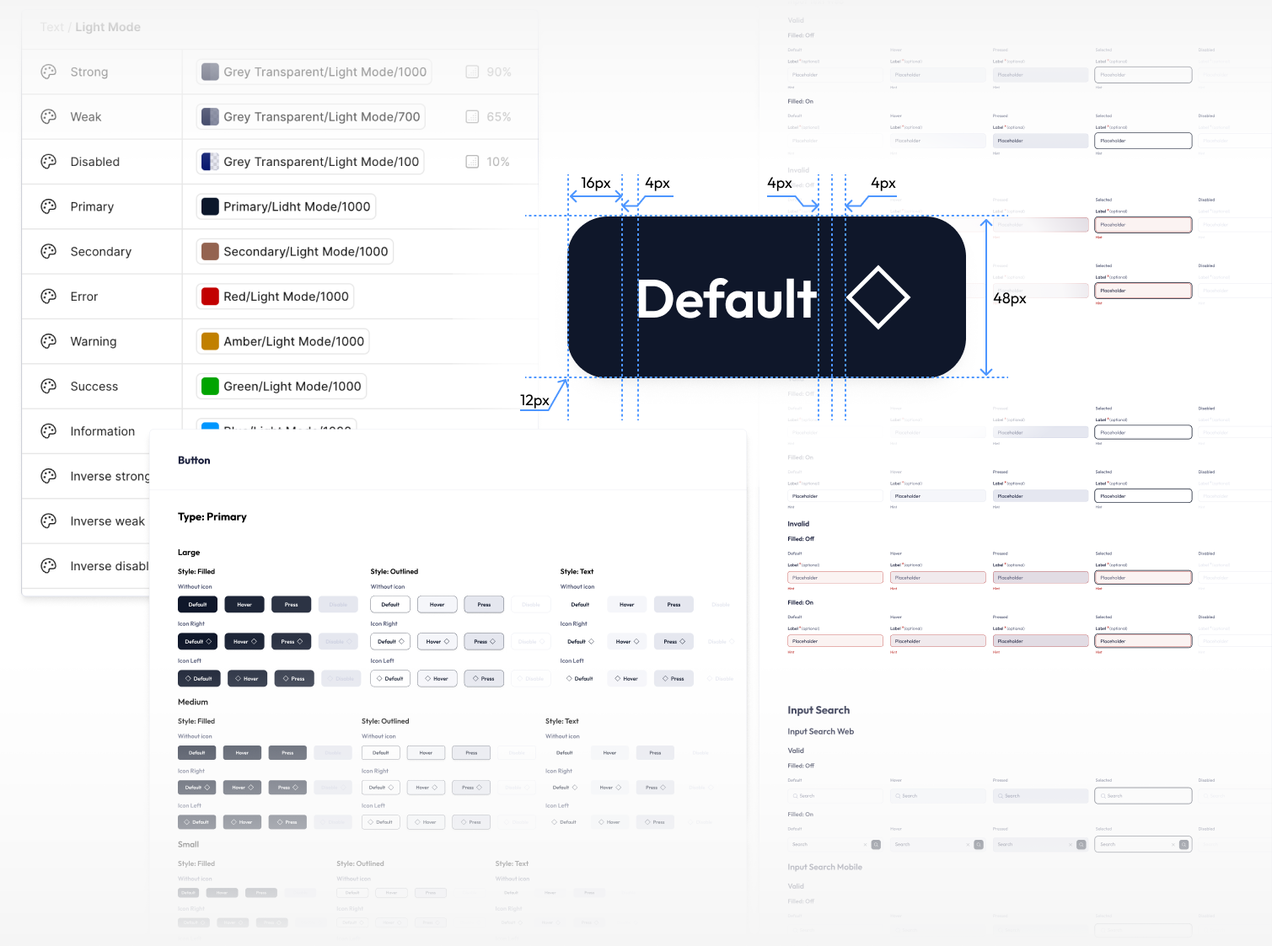
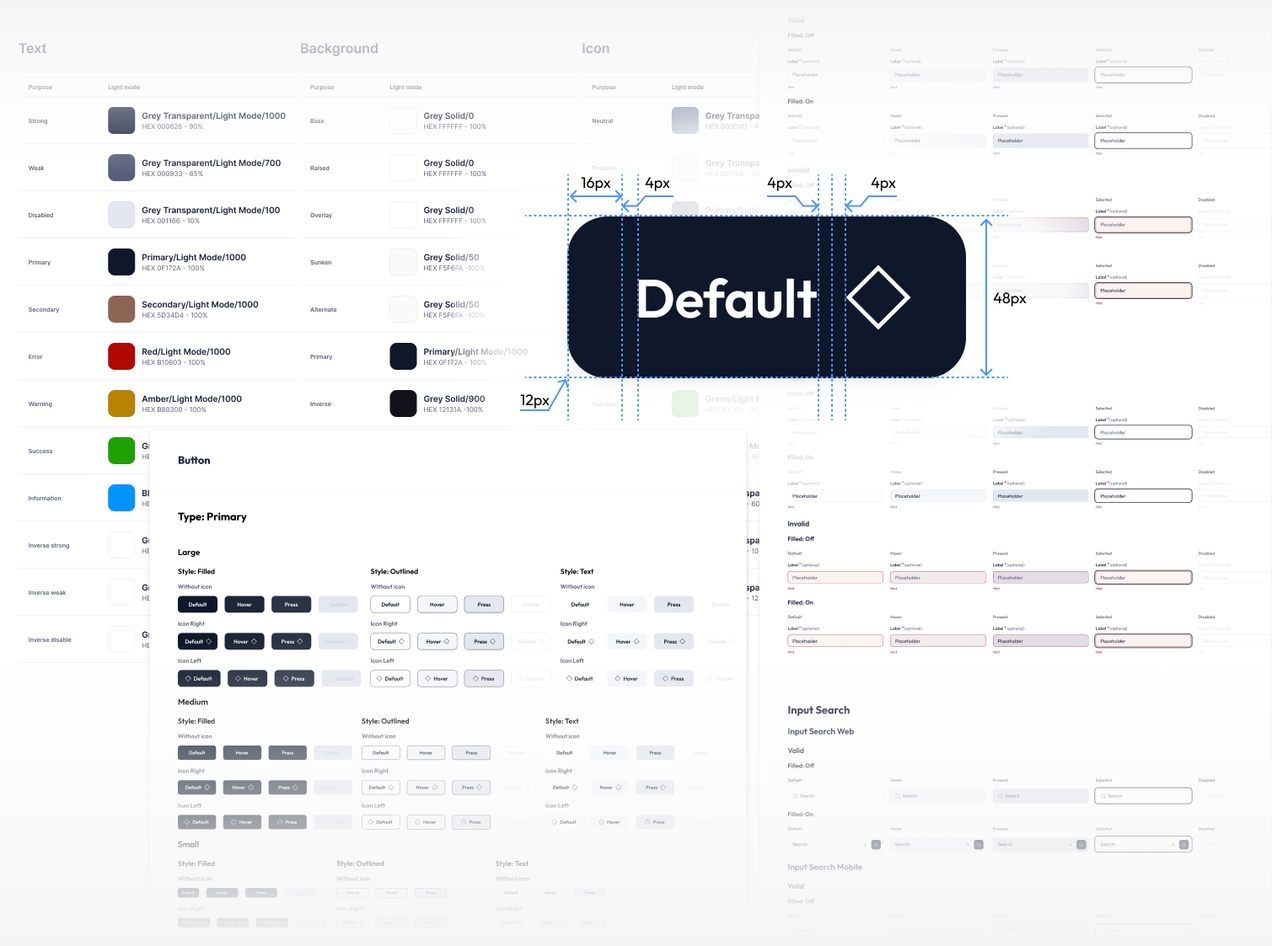
Move Design System ahead of the device showcase, fix a card overflow, and restore the [hidden] attribute sitewide
- Discovery Impact tile: "7 → 6" -> "10 → 6" mandatory steps, matching the
  Decision card
- Solution: Design System now sits right after the intro, before the device
  showcase (previously after it)
- Fix card 04's heading ("configuration/testing") overflowing its card: add
  a <wbr> after the slash so it wraps there instead of overflowing or
  breaking mid-word
- base.css: [hidden] { display: none !important; } — the native `hidden`
  attribute was silently losing to any author rule that sets `display`
  (e.g. .grid-12's own display: grid), regardless of specificity; this
  restores it as a reliable "remove from layout" attribute everywhere,
  found while trying (and later abandoning) a real product-screenshot
  onboarding subsection for Solution
- Update the refreshed design-system.png export (hex values + a Background
  column) and add the onboarding-real-*.png assets, kept on disk though
  currently unreferenced
- Update DESIGN-SYSTEM.md to match

diff --git a/ai-assistant-platform.html b/ai-assistant-platform.html
@@ -236,7 +236,7 @@
             <div class="cs-finding" tabindex="0">
               <div class="cs-finding-flip">
                 <div class="cs-finding-flip-face cs-finding-flip-front">
-                  <h3>Low guidance for configuration/testing</h3>
+                  <h3>Low guidance for configuration/<wbr />testing</h3>
                   <p>Users didn't know how to set up or test assistants without external help.</p>
                 </div>
                 <div class="cs-finding-flip-face cs-finding-flip-back">
@@ -288,7 +288,11 @@
       </div>
     </section>
 
-    <!-- 6 · SOLUTION — the IA as grouped boxes; the device showcase below carries the screens -->
+    <!-- 6 · SOLUTION — the IA as grouped boxes; Design System and the device showcase follow
+         below. The onboarding screens subsection that used to sit here (real before/after
+         product screenshots, same structure as Process's onboarding) was deleted at the user's
+         request — assets/images/projects/onboarding-real-*.png are unreferenced now, kept on
+         disk in case it's wanted again later. -->
     <section id="solution" class="section">
       <div class="container">
         <h2 class="section-title">Solution</h2>
@@ -313,6 +317,28 @@
             <ul class="cs-ia-items"><li>Notifications</li><li>Support</li><li>Plan &amp; credits</li></ul>
           </div>
         </div>
+      </div>
+    </section>
+
+    <!-- DESIGN SYSTEM — a real subsection (title + divider, standard .section rhythm), unlike
+         the device showcase below: this is reference content, not a placeholder loop, so it
+         earns a heading. Not one of the template's nine blocks and not listed in Contents; it
+         supplements Solution. Reference sheet (design-system.png)
+         exported from Figma, shown contained (.cs-figure.cs-wide) like the page's other
+         visuals, not full-bleed. -->
+    <section id="design-system" class="section">
+      <div class="container">
+        <h2 class="section-title">Design System</h2>
+        <hr class="section-divider" />
+      </div>
+      <div class="grid-12 cs-body">
+        <div class="cs-prose">
+          <p>Every screen above draws from one design system I built and maintained throughout the project: consistent colour and opacity tokens, and a shared set of components reused across both the Assistant tools and Business tools sides of the product.</p>
+          <p>Colour and opacity tokens, button anatomy with spacing annotations, and the full state matrix for buttons and inputs — the same components reused across every screen.</p>
+        </div>
+        <figure class="cs-figure cs-wide">
+          <img src="assets/images/projects/design-system.png" alt="Design system reference: color and opacity tokens, button anatomy with spacing annotations, button states across filled, outlined and text styles, and input states" loading="lazy" />
+        </figure>
       </div>
     </section>
 
@@ -378,27 +404,6 @@
       </div>
     </div>
 
-    <!-- DESIGN SYSTEM — a real subsection (title + divider, standard .section rhythm), unlike
-         the device showcase above: this is reference content, not a placeholder loop, so it
-         earns a heading. Not one of the template's nine blocks and not listed in Contents; it
-         supplements Solution. Reference sheet (design-system.png) exported from Figma, shown
-         contained (.cs-figure.cs-wide) like the page's other visuals, not full-bleed. -->
-    <section id="design-system" class="section">
-      <div class="container">
-        <h2 class="section-title">Design System</h2>
-        <hr class="section-divider" />
-      </div>
-      <div class="grid-12 cs-body">
-        <div class="cs-prose">
-          <p>Every screen above draws from one design system I built and maintained throughout the project: consistent colour and opacity tokens, and a shared set of components reused across both the Assistant tools and Business tools sides of the product.</p>
-          <p>Colour and opacity tokens, button anatomy with spacing annotations, and the full state matrix for buttons and inputs — the same components reused across every screen.</p>
-        </div>
-        <figure class="cs-figure cs-wide">
-          <img src="assets/images/projects/design-system.png" alt="Design system reference: color and opacity tokens, button anatomy with spacing annotations, button states across filled, outlined and text styles, and input states" loading="lazy" />
-        </figure>
-      </div>
-    </section>
-
     <!-- 7 · EVOLUTION — text only.
          OPTIONAL, only if screenshots of the white-label product are supplied: one or two screens next to
          the original (evolution-whitelabel-1.png, evolution-whitelabel-2.png) as a .cs-row.cs-wide of
@@ -437,7 +442,7 @@
             <p class="cs-impact-body">time to first assistant</p>
           </div>
           <div class="cs-impact-tile">
-            <p class="cs-impact-lead">7 <span class="cs-impact-arrow">→</span> 6</p>
+            <p class="cs-impact-lead">10 <span class="cs-impact-arrow">→</span> 6</p>
             <p class="cs-impact-body">Mandatory steps</p>
           </div>
           <div class="cs-impact-tile">

diff --git a/src/ai-assistant-platform.html b/src/ai-assistant-platform.html
@@ -221,7 +221,7 @@
             <div class="cs-finding" tabindex="0">
               <div class="cs-finding-flip">
                 <div class="cs-finding-flip-face cs-finding-flip-front">
-                  <h3>Low guidance for configuration/testing</h3>
+                  <h3>Low guidance for configuration/<wbr />testing</h3>
                   <p>Users didn't know how to set up or test assistants without external help.</p>
                 </div>
                 <div class="cs-finding-flip-face cs-finding-flip-back">
@@ -273,7 +273,11 @@
       </div>
     </section>
 
-    <!-- 6 · SOLUTION — the IA as grouped boxes; the device showcase below carries the screens -->
+    <!-- 6 · SOLUTION — the IA as grouped boxes; Design System and the device showcase follow
+         below. The onboarding screens subsection that used to sit here (real before/after
+         product screenshots, same structure as Process's onboarding) was deleted at the user's
+         request — assets/images/projects/onboarding-real-*.png are unreferenced now, kept on
+         disk in case it's wanted again later. -->
     <section id="solution" class="section">
       <div class="container">
         <h2 class="section-title">Solution</h2>
@@ -298,6 +302,28 @@
             <ul class="cs-ia-items"><li>Notifications</li><li>Support</li><li>Plan &amp; credits</li></ul>
           </div>
         </div>
+      </div>
+    </section>
+
+    <!-- DESIGN SYSTEM — a real subsection (title + divider, standard .section rhythm), unlike
+         the device showcase below: this is reference content, not a placeholder loop, so it
+         earns a heading. Not one of the template's nine blocks and not listed in Contents; it
+         supplements Solution. Reference sheet (design-system.png)
+         exported from Figma, shown contained (.cs-figure.cs-wide) like the page's other
+         visuals, not full-bleed. -->
+    <section id="design-system" class="section">
+      <div class="container">
+        <h2 class="section-title">Design System</h2>
+        <hr class="section-divider" />
+      </div>
+      <div class="grid-12 cs-body">
+        <div class="cs-prose">
+          <p>Every screen above draws from one design system I built and maintained throughout the project: consistent colour and opacity tokens, and a shared set of components reused across both the Assistant tools and Business tools sides of the product.</p>
+          <p>Colour and opacity tokens, button anatomy with spacing annotations, and the full state matrix for buttons and inputs — the same components reused across every screen.</p>
+        </div>
+        <figure class="cs-figure cs-wide">
+          <img src="assets/images/projects/design-system.png" alt="Design system reference: color and opacity tokens, button anatomy with spacing annotations, button states across filled, outlined and text styles, and input states" loading="lazy" />
+        </figure>
       </div>
     </section>
 
@@ -363,27 +389,6 @@
       </div>
     </div>
 
-    <!-- DESIGN SYSTEM — a real subsection (title + divider, standard .section rhythm), unlike
-         the device showcase above: this is reference content, not a placeholder loop, so it
-         earns a heading. Not one of the template's nine blocks and not listed in Contents; it
-         supplements Solution. Reference sheet (design-system.png) exported from Figma, shown
-         contained (.cs-figure.cs-wide) like the page's other visuals, not full-bleed. -->
-    <section id="design-system" class="section">
-      <div class="container">
-        <h2 class="section-title">Design System</h2>
-        <hr class="section-divider" />
-      </div>
-      <div class="grid-12 cs-body">
-        <div class="cs-prose">
-          <p>Every screen above draws from one design system I built and maintained throughout the project: consistent colour and opacity tokens, and a shared set of components reused across both the Assistant tools and Business tools sides of the product.</p>
-          <p>Colour and opacity tokens, button anatomy with spacing annotations, and the full state matrix for buttons and inputs — the same components reused across every screen.</p>
-        </div>
-        <figure class="cs-figure cs-wide">
-          <img src="assets/images/projects/design-system.png" alt="Design system reference: color and opacity tokens, button anatomy with spacing annotations, button states across filled, outlined and text styles, and input states" loading="lazy" />
-        </figure>
-      </div>
-    </section>
-
     <!-- 7 · EVOLUTION — text only.
          OPTIONAL, only if screenshots of the white-label product are supplied: one or two screens next to
          the original (evolution-whitelabel-1.png, evolution-whitelabel-2.png) as a .cs-row.cs-wide of
@@ -422,7 +427,7 @@
             <p class="cs-impact-body">time to first assistant</p>
           </div>
           <div class="cs-impact-tile">
-            <p class="cs-impact-lead">7 <span class="cs-impact-arrow">→</span> 6</p>
+            <p class="cs-impact-lead">10 <span class="cs-impact-arrow">→</span> 6</p>
             <p class="cs-impact-body">Mandatory steps</p>
           </div>
           <div class="cs-impact-tile">

diff --git a/css/base.css b/css/base.css
@@ -4,6 +4,16 @@
   box-sizing: border-box;
 }
 
+/* The native `hidden` attribute is only display: none in the browser's own (UA) stylesheet, at
+   low priority — any author rule that sets `display` on the same element (e.g. .grid-12's own
+   display: grid, loaded after this file) wins at equal specificity by cascade order alone, and
+   a more specific author rule (an id, or two classes) would win regardless of order. !important
+   is the one thing nothing here can accidentally out-rank, so `hidden` stays a reliable "remove
+   from layout" attribute everywhere on the site, not just where nothing else sets display. */
+[hidden] {
+  display: none !important;
+}
+
 html {
   scroll-behavior: smooth;
 }

diff --git a/DESIGN-SYSTEM.md b/DESIGN-SYSTEM.md
@@ -386,11 +386,11 @@ first). Components built for it, all in `css/case-study.css`:
 | `.cs-quotes` | Problem | Two user-research quotes stacked in columns 5–12, attributed "User research". |
 | `.cs-findings-featured` | Discovery | "content overload" (lowercase, like every other label on the page — `.cs-onb-title`, reused verbatim; not one of Contents' eight sections), the finding that earns expanded treatment: three cards, always visible, in a `.cs-row` — Evidence (a stat), Insight (the user quote that drove the decision) and Decision (what changed, "10 → 6"). Each card's own label sits inside it, not in a caption below: `.eyebrow`, reused verbatim (uppercase, the same weight) — the page's established "small label above something" treatment (the Hook eyebrow, Quick facts, Contents). On desktop the row uses `.cs-row`'s default `align-items: stretch`, so the tallest card (Decision, with the most content) hugs its own height and the other two stretch to match it — a single shared card height across the row, not each card sized to its own content. All three top-align their content, including Insight's quote, the natural reading order (matches the flip cards' front face below). On mobile the row stacks to one column, where stretch is a no-op, so each card is exactly as tall as its own content. A `<hr class="section-divider cs-wide">` separates this three-card row from the four-card `.cs-findings` row below, at every width. |
 | `.cs-findings` | Discovery | The other four findings, numbered (`01`–`04`, CSS counter — starts over at the true count once "Content overload" is pulled out, nothing to renumber by hand — same text style as `.eyebrow`, reused verbatim since a pseudo-element can't carry a class), one per `.cs-row` column on desktop, stacked on a phone. Same stretch behaviour as the row above: on desktop the tallest card's front face (number, heading, body text — top-aligned) sets the row's height and the other cards stretch to match; on mobile each card hugs its own content, with `min-height` as a floor. Each card (`.cs-finding`, `--color-surface` with `--shadow-card`) flips to reveal a synthetic, illustrative quote on the back — deliberately separate from `.cs-quote` in Problem, which carries real, attributed research — no caption, centred rather than top-aligned; the flip is discoverable by touch/pointer alone. `.cs-finding-flip`, a `rotateY(180deg)` 3D transform with `backface-visibility: hidden`: only the back face is taken out of flow (`position: absolute`) to overlay the front — the front stays in normal flow specifically so its real content (not an arbitrary fixed box) is what sets the card's height; an earlier pass stacked both faces with `position: absolute` (or, briefly, a CSS grid stack), which left every card at the same bare `min-height` regardless of content since an out-of-flow face contributes nothing to layout, and the grid-stack alternative had its own bug — Chromium mis-rendered `backface-visibility` on grid-stacked faces, letting the back face's (mirrored) content bleed through on an unflipped card. Both faces are opaque so neither shows through the other, `transform: none` in reduced motion so the flip is instant, not animated, rather than suppressed. Triggered by `:hover`/`:focus`/`:focus-within` on a device with real hover, and by a tap-toggling `.is-flipped` class (`js/main.js`, checked at `click` time against `(hover: none)` — not once at load, which races an emulated or real touch device's capability settling) on one without. |
-| `.cs-onboarding` | Process | The Onboarding flow, old and improved, two pairs of real images (below). |
-| `.cs-ia` | Solution | Grouped boxes: Assistant tools (columns 1–4), Business tools (5–9), and a smaller Account / utility group (10–12), the last with an outline and no shadow. Layout only, not a screenshot. |
-| `.cs-device-showcase` | after Solution, before Evolution | Two transparent-background frame PNGs, `desktop-frame.png` and `phone-frame.png` (both 2000×1536, the same canvas, so they stack with `inset: 0` and no offset math), inside a wrapper carrying `aspect-ratio: 2000 / 1536` so nothing distorts. Two overlays, each sized (via `top`/`left`/`width`/`height`, not `inset: 0`) to its own frame's *actual screen slot* — not the full canvas — crossfade the real Lexi screenshots (`assets/images/projects/lexi-screens/`) inside each frame's actual screen, by measured percentages: 14 desktop shots in the monitor overlay, 16 mobile shots in the phone overlay (packets 01 and 06 each have two mobile variants: content/nav and chat-detail/chats-list), one panel per file in file order. Mobile screenshots are cropped from the top (`object-position: center bottom`), keeping each screen's bottom — its bezel-adjacent edge — in frame; the monitor keeps the default centred crop. Sizing the overlay itself to the slot (rounded with `overflow: hidden` + `border-radius`, not `clip-path`) matters: an earlier pass sized the overlay to the full canvas and only visually cropped it with `clip-path`, which doesn't change the layout box — every screenshot's `object-fit: cover` was cropping against that full, wrong-aspect-ratio box instead of the slot's own, so the monitor showed a tiny sliver of an over-zoomed crop and the phone (a tall, narrow slot) got its screenshot scaled against a wide landscape box.<br><br>Both overlays share one 16-unit cycle (`--device-panel-duration` × 16) so a packet always switches at the same instant on both frames. The phone's 16 panels are evenly timed, one unit each, `--i` (0-based file order) driving `animation-delay` directly. The monitor's 14 panels are *not* even: packets 01 and 06 have one desktop shot but two mobile ones, so those two desktop panels (`.cs-device-panel--double`, its own `@keyframes` with a wider pulse) hold for 2 units instead of 1 — 12×1 + 2×2 = 16, matching the phone exactly — and every other monitor panel's delay is a precomputed `--d` (not a simple `--i` formula, since the units are uneven); see the CSS comment for how `--d` is derived and recompute the whole column if a monitor panel is added, removed or reordered. Each panel's own pulse is wider than its unit by 0.175 units on each side (half of the original 0.35, for a deliberately snappier switch — half the fade time, more time held at full opacity), so the next one is already fading in before the current one reaches 0 — a continuous crossfade with no instant where every panel is at once transparent. `animation-delay` is negative (not positive): a positive delay would leave every panel but one sitting at its unanimated, blank `opacity: 0` for up to 15 panel-durations after page load; negative delay avoids that (the whole thing is already mid-cycle at first paint) but plays a panel's pulse *sooner* the larger its magnitude, so the phone's `--i` is inverted (`15 − --i`) to still advance in ascending file order. Both overlays freeze on their first screenshot (`:first-child`) under reduced motion. Stacking, bottom to top: desktop frame, the monitor's overlay, phone frame, the phone's overlay — the phone frame's own transparency means the monitor overlay needs no cut-out for it (unlike an earlier, photo-based pass: it painted over the phone's bezel there, fixed with a "keyhole" `clip-path` hole; a coded-CSS-bezel pass before that was replaced once real frame images existed). No section title: reinforces Solution rather than adding narrative, so it sits outside any `<section>` and is `aria-hidden`. Scales fluidly at every width, no breakpoint override needed. Superseded `.cs-devices` on this page, which is still used by the placeholder case studies (`.cs-device`, above). |
+| `.cs-onboarding` | Process | The Onboarding flow, old and improved, two pairs of real images (below). Briefly reused verbatim for a second "onboarding" subsection in Solution (real product screenshots, `onboarding-real-before-*.png`/`onboarding-real-after-*.png`, instead of the Process diagrams) — hidden, then deleted at the user's request; the images are unreferenced now, kept on disk in case it's wanted again. Deleting it surfaced a sitewide fix worth keeping regardless: `.grid-12`'s own `display: grid` was silently overriding the browser's default `[hidden] { display: none }` while that subsection was hidden-not-deleted, since any author rule that sets `display` beats the UA stylesheet regardless of specificity — base.css now has `[hidden] { display: none !important; }` so the native `hidden` attribute works reliably everywhere on the site, not just where nothing else sets `display`. |
+| `.cs-ia` | Solution | Grouped boxes: Assistant tools (columns 1–4), Business tools (5–9), and a smaller Account / utility group (10–12), the last with an outline and no shadow. Layout only, not a screenshot. Back in `.cs-body` right after the intro paragraph (its original position, and the same spot it returned to once the onboarding subsection that had briefly displaced it was deleted). |
+| `#design-system` | after Solution, before the device showcase | A real subsection — title + divider and `.section` padding, the same rhythm as every named section — not one of the template's nine blocks and not listed in Contents, but it earns a heading because it's real reference content, not a placeholder loop (unlike the device showcase below it). Two `.cs-prose` paragraphs (what it is, then what the image below shows) introduce a real, full-width export (`design-system.png`: colour and opacity tokens — now with hex values and a Background column alongside Text/Icon — button anatomy with spacing annotations, and button/input states) as `.cs-figure.cs-wide` — the page's ordinary contained-visual pattern, not `.cs-figure--bleed` — with a real `<img>`, not `.cs-media`, so it scales by width with `height: auto` (see ".cs-figure > img" above) and keeps its own aspect ratio. No `figcaption`: the description of what's shown lives in the second body paragraph instead, not under the image. |
+| `.cs-device-showcase` | Solution, after Design System, at the end of the Solution area | Two transparent-background frame PNGs, `desktop-frame.png` and `phone-frame.png` (both 2000×1536, the same canvas, so they stack with `inset: 0` and no offset math), inside a wrapper carrying `aspect-ratio: 2000 / 1536` so nothing distorts. Two overlays, each sized (via `top`/`left`/`width`/`height`, not `inset: 0`) to its own frame's *actual screen slot* — not the full canvas — crossfade the real Lexi screenshots (`assets/images/projects/lexi-screens/`) inside each frame's actual screen, by measured percentages: 14 desktop shots in the monitor overlay, 16 mobile shots in the phone overlay (packets 01 and 06 each have two mobile variants: content/nav and chat-detail/chats-list), one panel per file in file order. Mobile screenshots are cropped from the top (`object-position: center bottom`), keeping each screen's bottom — its bezel-adjacent edge — in frame; the monitor keeps the default centred crop. Sizing the overlay itself to the slot (rounded with `overflow: hidden` + `border-radius`, not `clip-path`) matters: an earlier pass sized the overlay to the full canvas and only visually cropped it with `clip-path`, which doesn't change the layout box — every screenshot's `object-fit: cover` was cropping against that full, wrong-aspect-ratio box instead of the slot's own, so the monitor showed a tiny sliver of an over-zoomed crop and the phone (a tall, narrow slot) got its screenshot scaled against a wide landscape box.<br><br>Both overlays share one 16-unit cycle (`--device-panel-duration` × 16) so a packet always switches at the same instant on both frames. The phone's 16 panels are evenly timed, one unit each, `--i` (0-based file order) driving `animation-delay` directly. The monitor's 14 panels are *not* even: packets 01 and 06 have one desktop shot but two mobile ones, so those two desktop panels (`.cs-device-panel--double`, its own `@keyframes` with a wider pulse) hold for 2 units instead of 1 — 12×1 + 2×2 = 16, matching the phone exactly — and every other monitor panel's delay is a precomputed `--d` (not a simple `--i` formula, since the units are uneven); see the CSS comment for how `--d` is derived and recompute the whole column if a monitor panel is added, removed or reordered. Each panel's own pulse is wider than its unit by 0.175 units on each side (half of the original 0.35, for a deliberately snappier switch — half the fade time, more time held at full opacity), so the next one is already fading in before the current one reaches 0 — a continuous crossfade with no instant where every panel is at once transparent. `animation-delay` is negative (not positive): a positive delay would leave every panel but one sitting at its unanimated, blank `opacity: 0` for up to 15 panel-durations after page load; negative delay avoids that (the whole thing is already mid-cycle at first paint) but plays a panel's pulse *sooner* the larger its magnitude, so the phone's `--i` is inverted (`15 − --i`) to still advance in ascending file order. Both overlays freeze on their first screenshot (`:first-child`) under reduced motion. Stacking, bottom to top: desktop frame, the monitor's overlay, phone frame, the phone's overlay — the phone frame's own transparency means the monitor overlay needs no cut-out for it (unlike an earlier, photo-based pass: it painted over the phone's bezel there, fixed with a "keyhole" `clip-path` hole; a coded-CSS-bezel pass before that was replaced once real frame images existed). No section title: reinforces Solution rather than adding narrative, so it sits outside any `<section>` and is `aria-hidden`. Scales fluidly at every width, no breakpoint override needed. Superseded `.cs-devices` on this page, which is still used by the placeholder case studies (`.cs-device`, above). |
 | `.cs-impact--tiles` | Impact | Five tiles: three before → after figures, then two evidence statements ("Same system, second product", "Shipped and stayed"). |
-| `#design-system` | after the device showcase, before Evolution | A real subsection — title + divider and `.section` padding, the same rhythm as every named section — not one of the template's nine blocks and not listed in Contents, but it earns a heading because it's real reference content, not a placeholder loop (unlike the aria-hidden device showcase above it). Two `.cs-prose` paragraphs (what it is, then what the image below shows) introduce a real, full-width export (`design-system.png`: colour/opacity tokens, button anatomy with spacing annotations, button and input states) as `.cs-figure.cs-wide` — the page's ordinary contained-visual pattern, not `.cs-figure--bleed` — with a real `<img>`, not `.cs-media`, so it scales by width with `height: auto` (see ".cs-figure > img" above) and keeps its own aspect ratio. No `figcaption`: the description of what's shown lives in the second body paragraph instead, not under the image. |
 
 **Process visual: the Onboarding flow, old and improved (`.cs-onboarding`).** Two real exported
 image pairs — a wide "horizontal" one (steps left to right) and a tall "vertical" one (steps top
